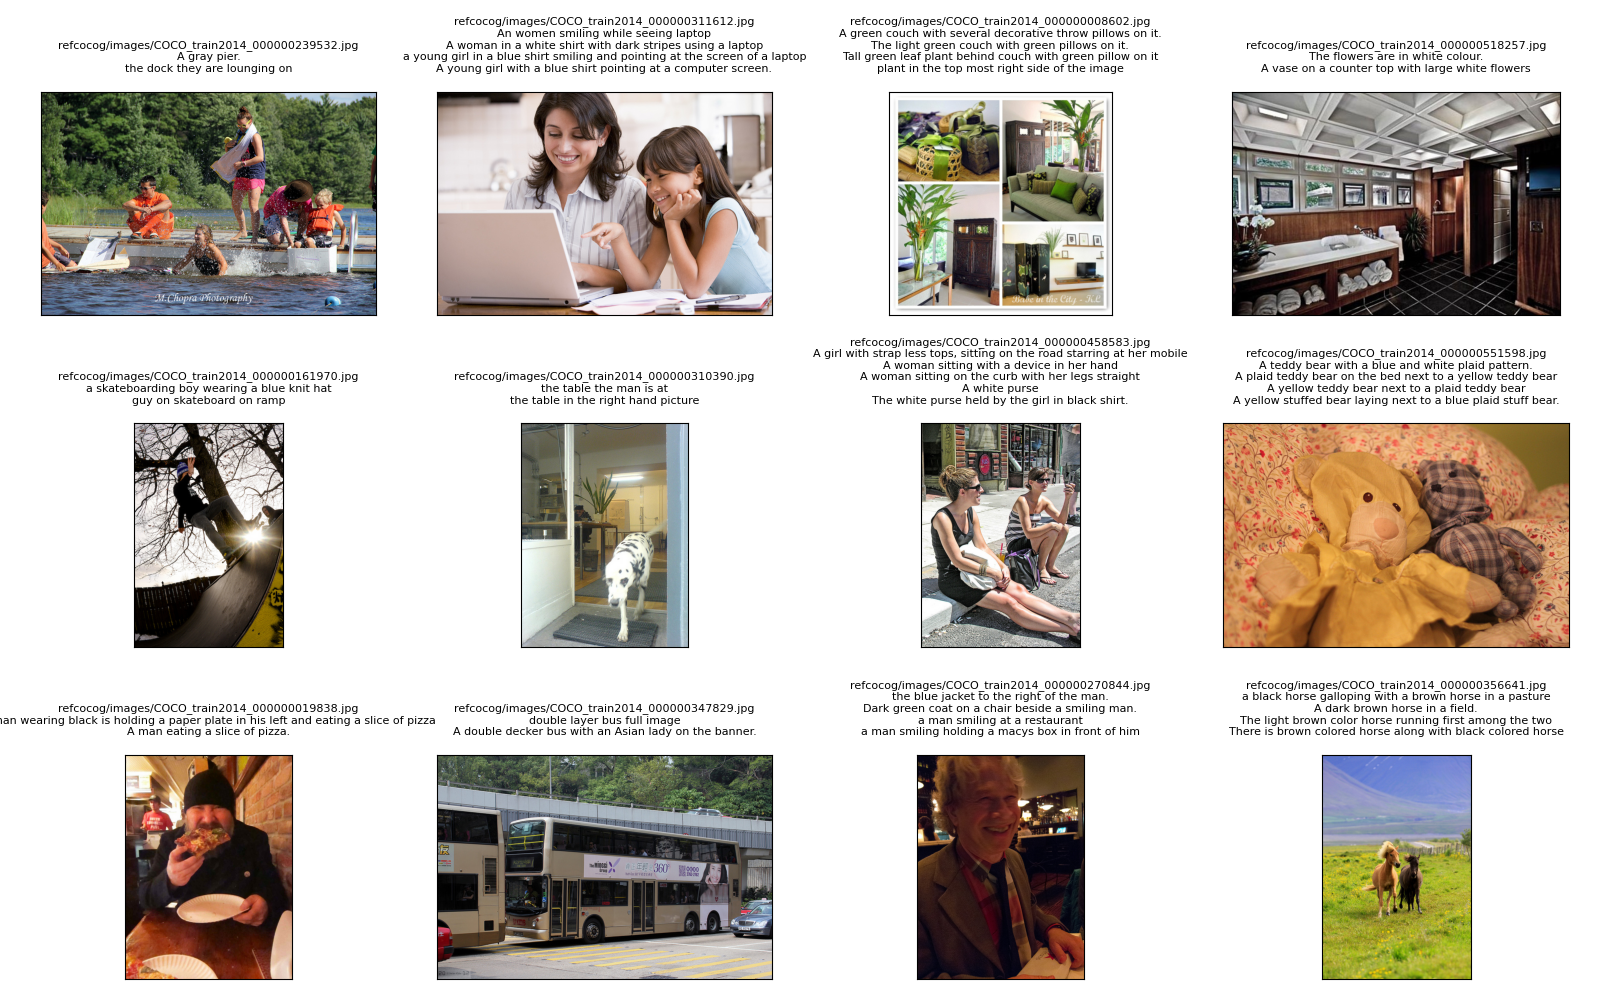
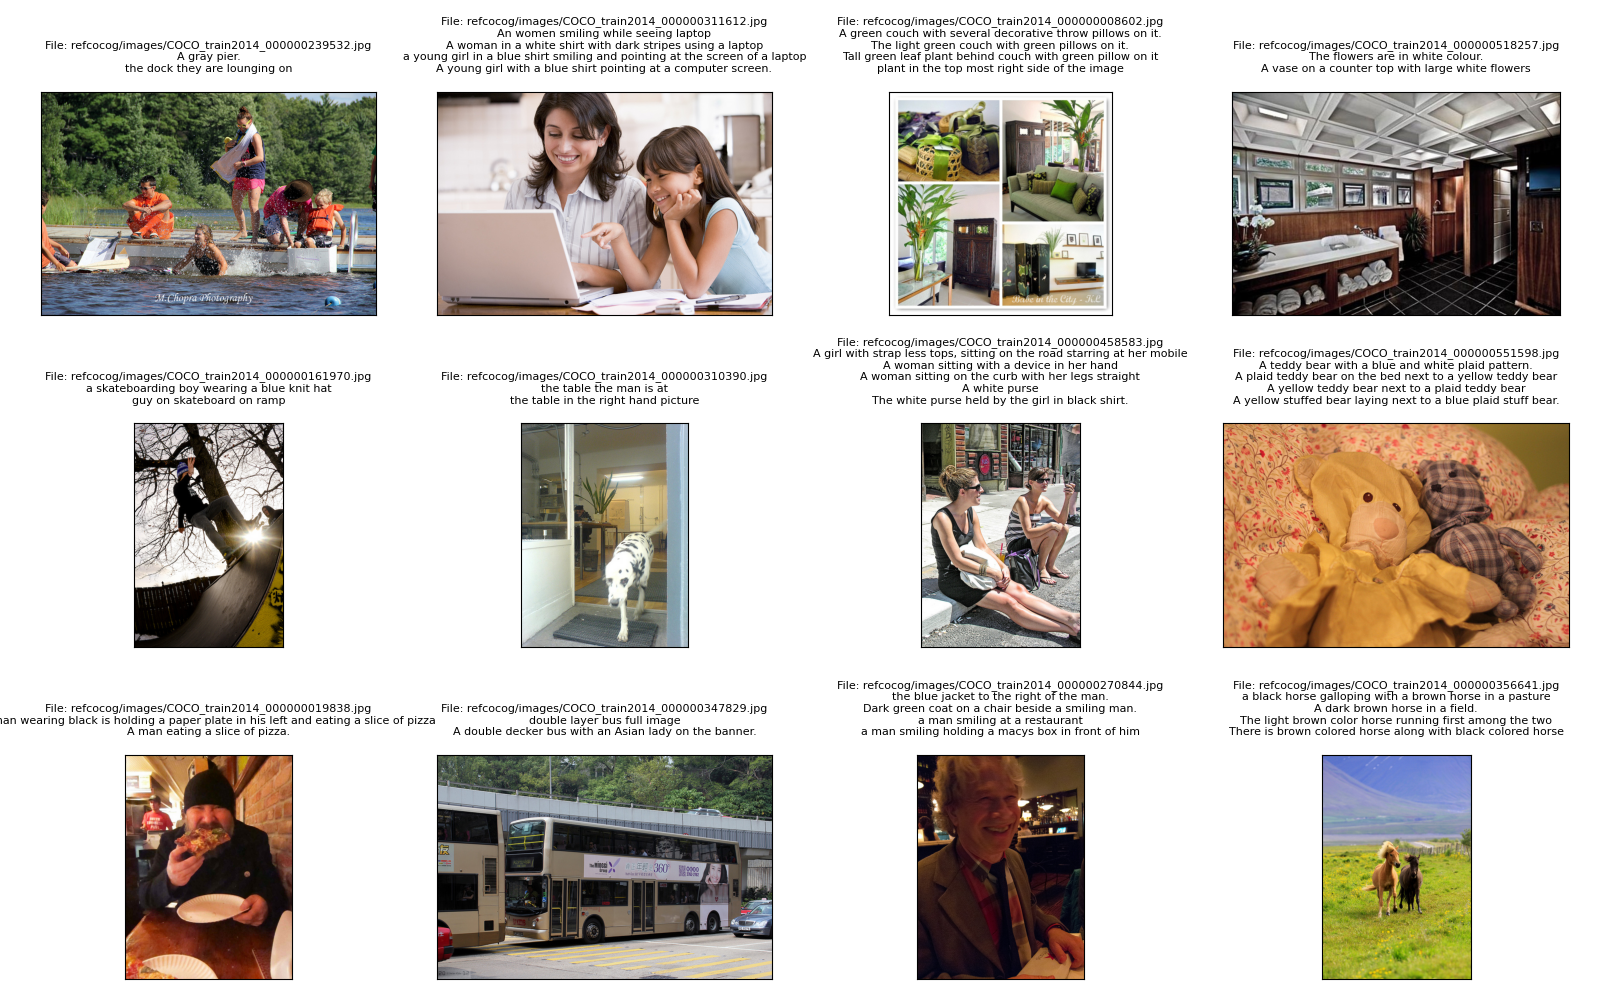
fixed img title in plots

diff --git a/Test/baseline.py b/Test/baseline.py
@@ -94,7 +94,7 @@ def plot_beginning(data_loader, preprocess, n_samples = 12):
         tmp = ""
         for text in descs:
             tmp += text[0] + "\n"
-        title_img = str(file_name[0][0])+"\n"+tmp
+        title_img = "File: " + str(file_name[0][0])+"\n"+tmp
         plt.subplot(3, 4, len(images) + 1)
         plt.imshow(image)
         plt.title(title_img, fontsize=8)
